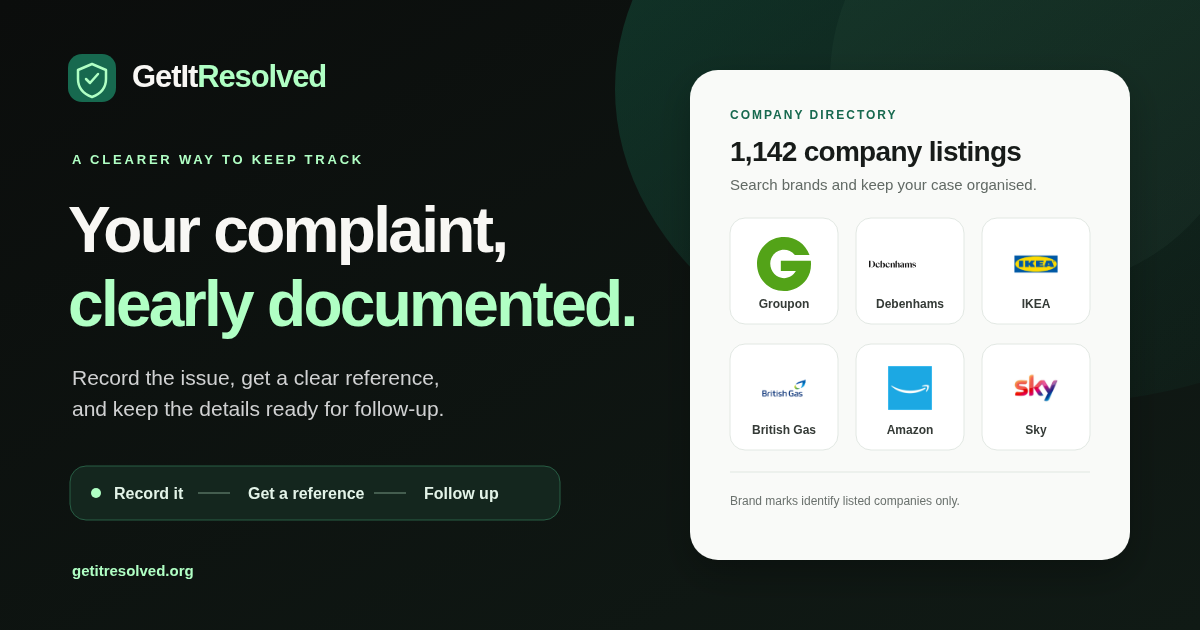
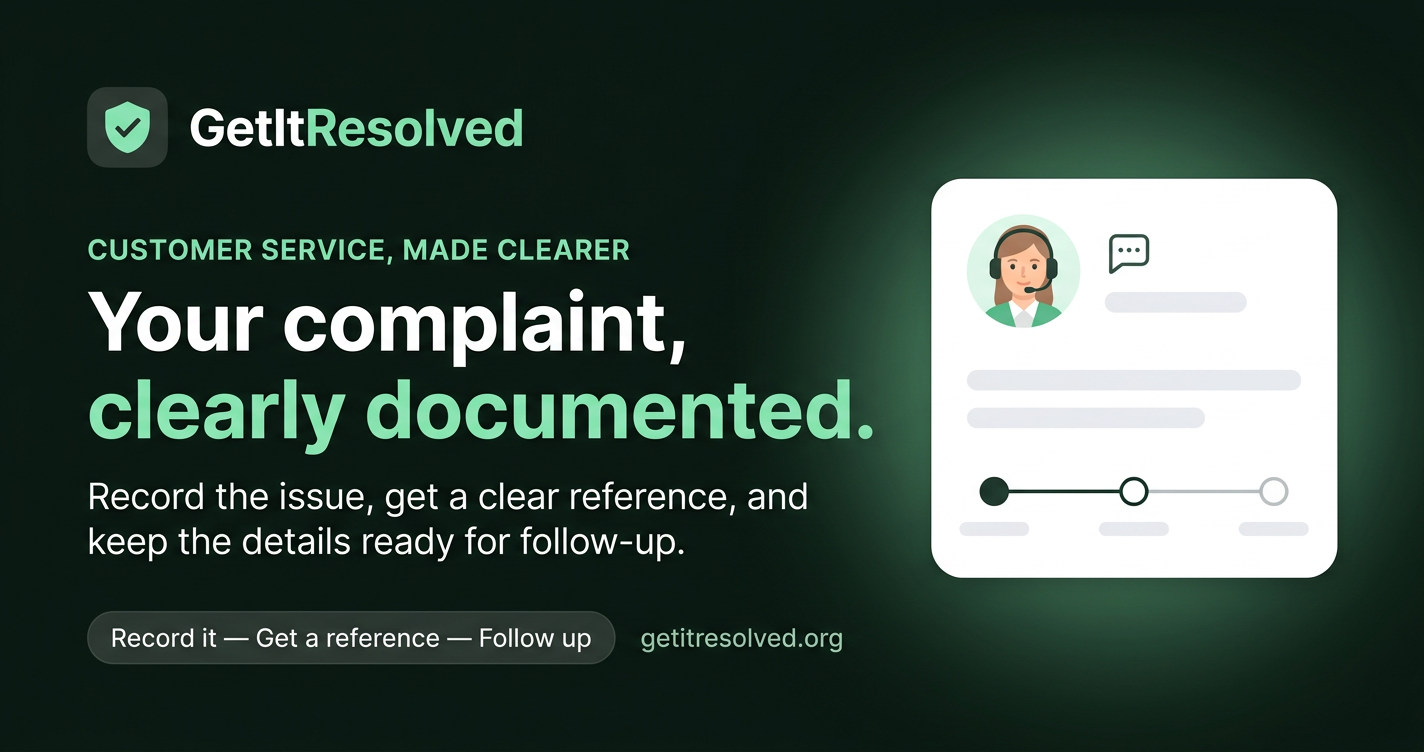
Initial commit from v0
#VERCEL_SKIP

diff --git a/index.html b/index.html
@@ -25,7 +25,7 @@
   <meta property="og:image:type" content="image/png">
   <meta property="og:image:width" content="1200">
   <meta property="og:image:height" content="630">
-  <meta property="og:image:alt" content="GetItResolved in its dark green brand palette, with company directory logos and a complaint tracking message.">
+  <meta property="og:image:alt" content="GetItResolved customer service case tracking with a clear complaint reference and follow-up progress.">
   <meta property="og:updated_time" content="2026-11-15T00:00:00Z">
 
   <meta name="twitter:card" content="summary_large_image">
@@ -33,7 +33,7 @@
   <meta name="twitter:description" content="An independent customer complaint case portal covering UK, US, European and global companies.">
   <meta name="twitter:image" content="https://www.getitresolved.company/social-preview-v2.png">
   <link rel="image_src" href="https://www.getitresolved.company/social-preview-v2.png">
-  <meta name="twitter:image:alt" content="GetItResolved in its dark green brand palette, with company directory logos and a complaint tracking message.">
+  <meta name="twitter:image:alt" content="GetItResolved customer service case tracking with a clear complaint reference and follow-up progress.">
 
   <link rel="icon" href="assets/favicon.svg" type="image/svg+xml">
   <link rel="apple-touch-icon" href="assets/apple-touch-icon.png">
